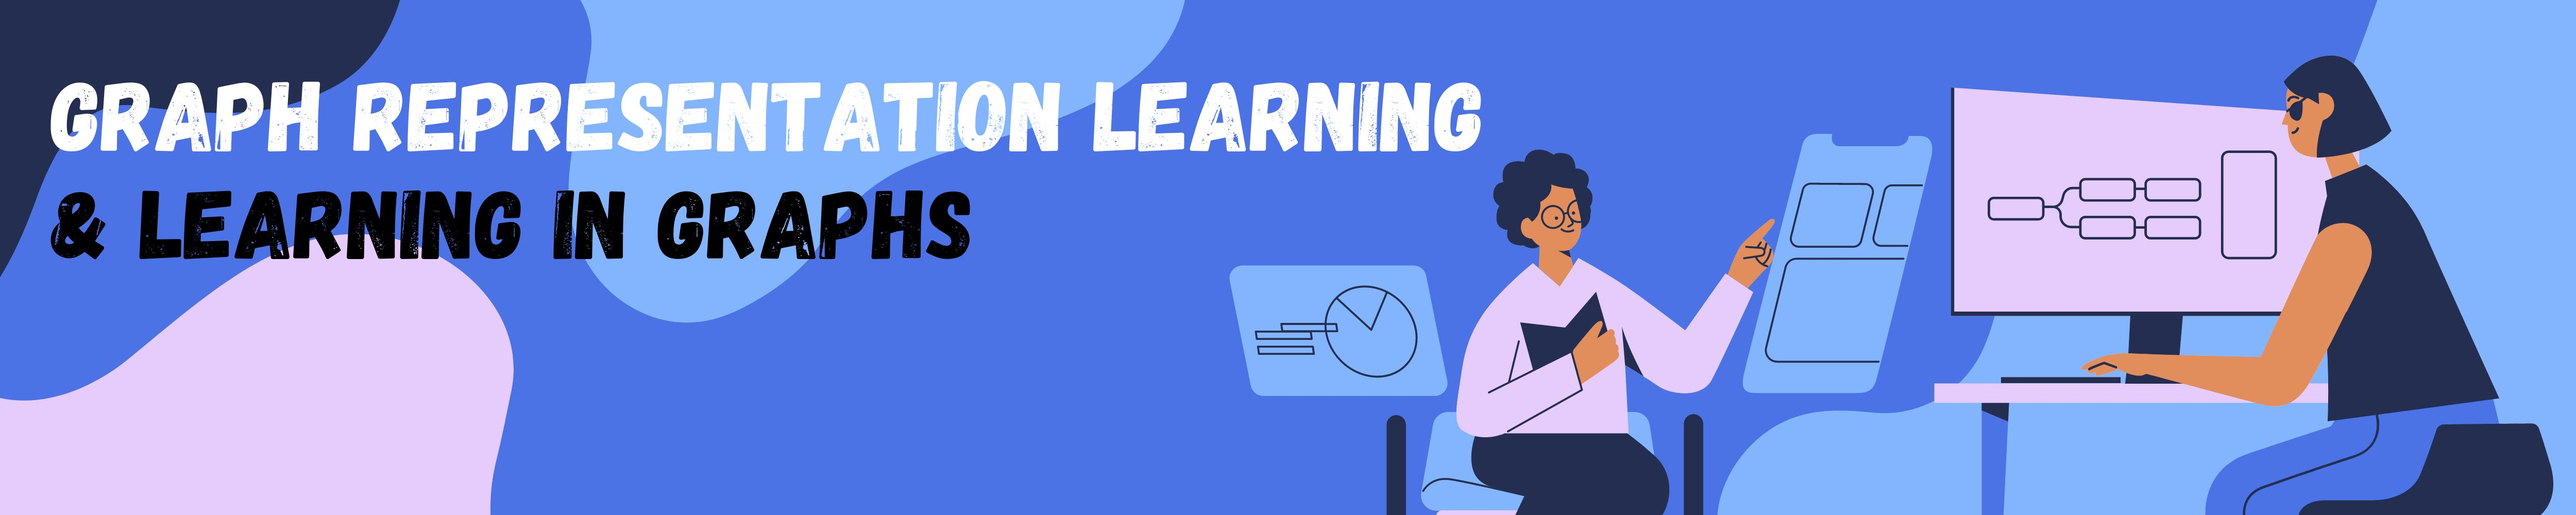
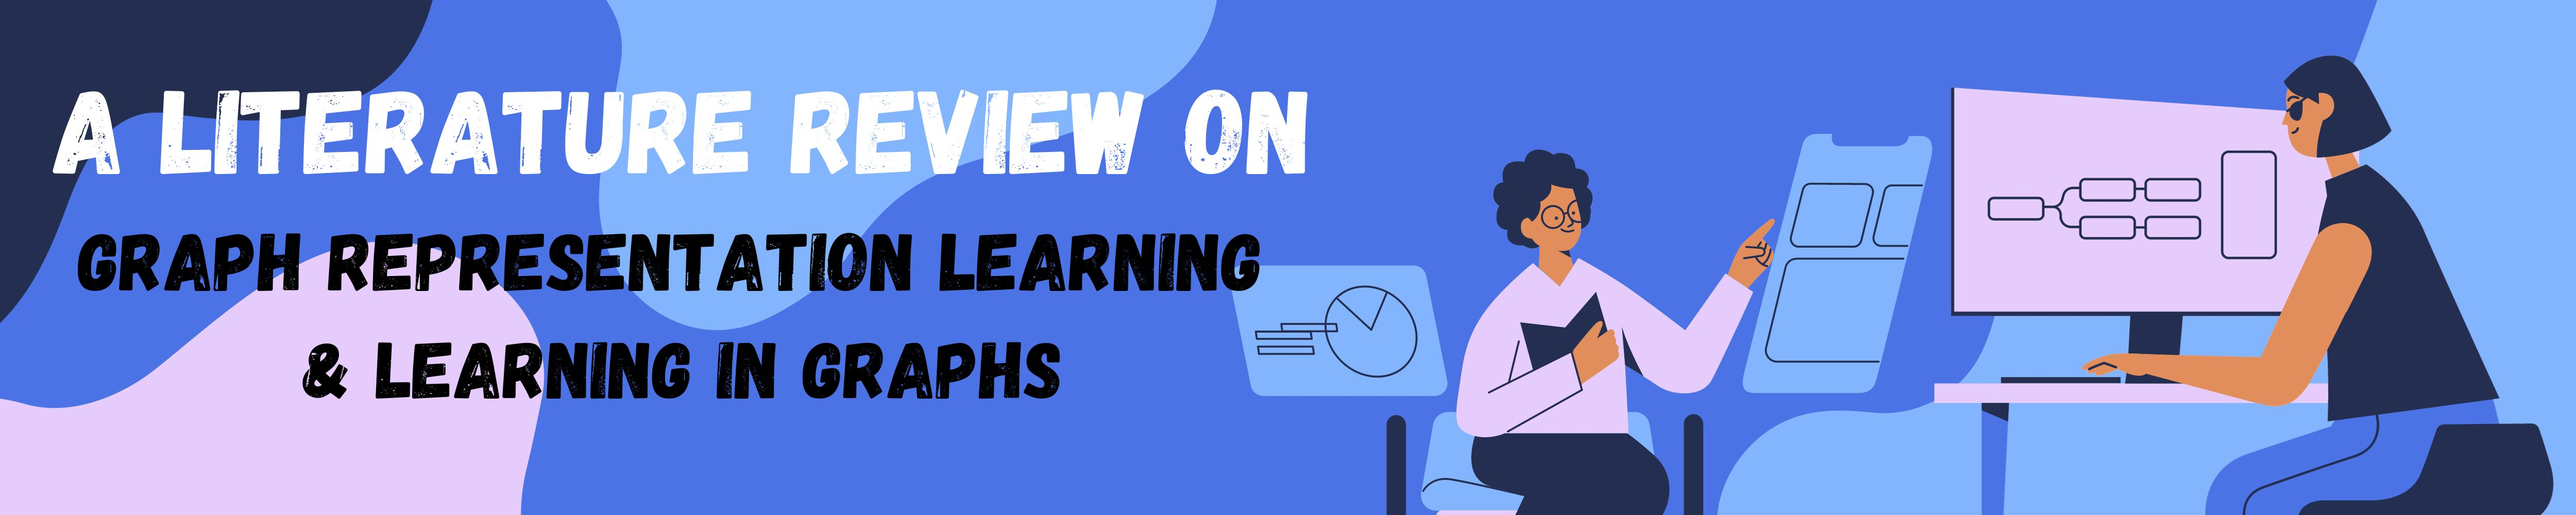
fixed

Changed region(s): [[0.0, 0.0, 0.5928, 1.0]]

diff --git a/_posts/2023-09-10-a-literature- review-on-graph-representation-learning.md b/_posts/2023-09-10-a-literature- review-on-graph-representation-learning.md
@@ -1,6 +1,6 @@
 ---
 layout: post
-title: "Graph Representation Learning and Learning in Graphs"
+title: "A Literature Review on Graph Representation Learning and Learning in Graphs"
 thumbnail: "/assets/img/graph/Graph-Representation-Learning.jpg"
 author: sara
 tags: [deep-geometric-learning,graph-neural-networks,deep-learning,representation-learning]
